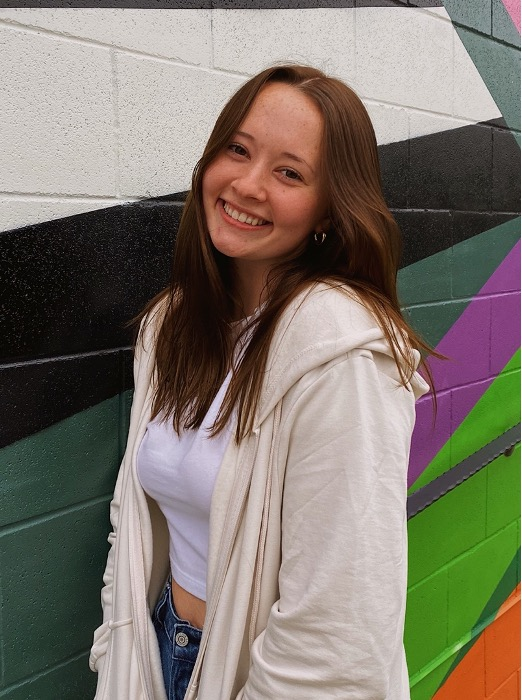
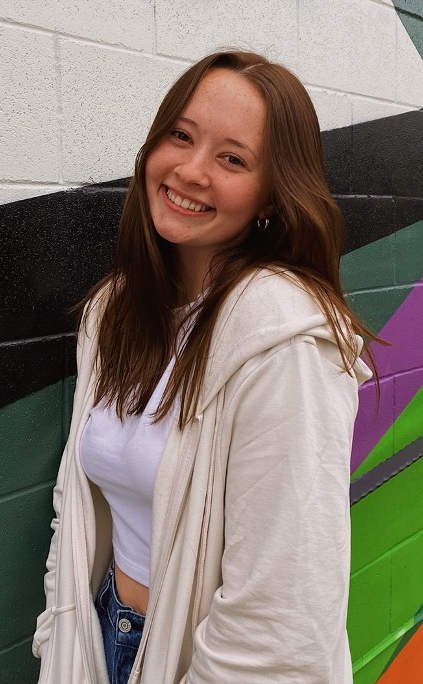
tweak margins, etc

diff --git a/_sass/_archive.scss b/_sass/_archive.scss
@@ -96,7 +96,7 @@
    GROUP
    ========================================================================== */
  .group {
-   margin-bottom: 5em;
+   margin-bottom: 0em;
 
    @include breakpoint($medium) {
      @include span(12 of 12);
@@ -120,11 +120,17 @@
    }
  }
 
+
+ .group__item-title {
+   margin-bottom: 0em;
+   font-family: $sans-serif-narrow;
+ }
+
 .group__group-image {
   float: left;
-  margin: 15px;
-  max-width: 25%;
-  max-height: 200px;
+  margin: 2px 15px 50px 5px;
+  max-width: 35%;
+  max-height: 250px;
   height: auto;
 }
 

diff --git a/_includes/group-single.html b/_includes/group-single.html
@@ -26,9 +26,13 @@
       </div>
     {% endif %}
 
-      <h2 class="archive__item-title" itemprop="headline">
-        {{ post.name }} ({{ post.degreedate }})
+      <h2 class="group__item-title">
+        {{ post.name }}
       </h2>
+
+      <h3 class="group__item-title">
+        {{ post.degreedate }}
+      </h3>
 
       {% if post.image %}
           <img class="group__group-image" src="{{ post.image }}" alt="{{ post.name }}">
